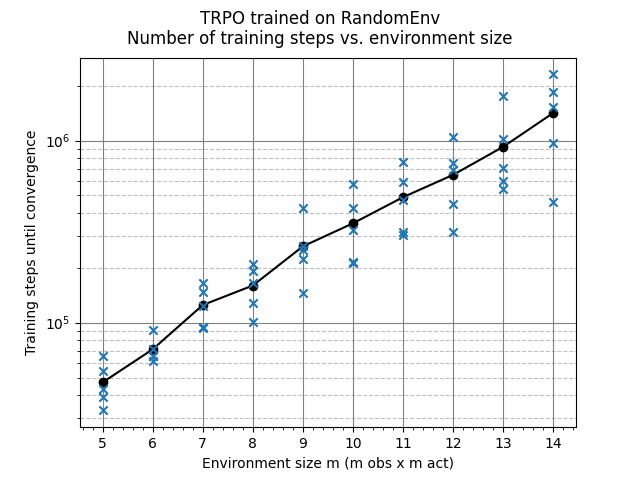
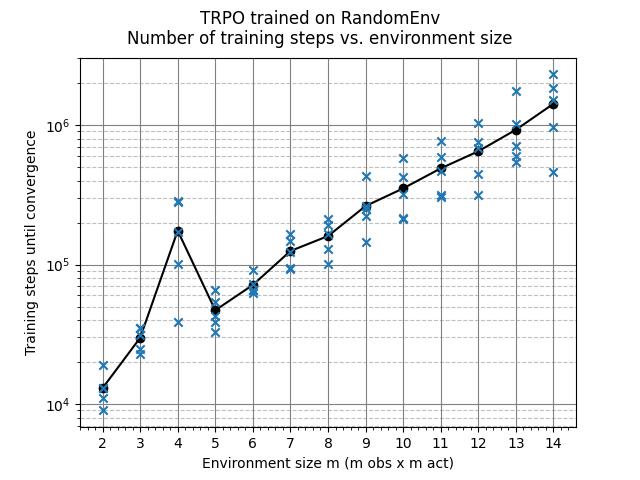
wip 27/10/2022
Added M: 2-->4 for TRPO on IdentityEnv

diff --git a/deep_rl/random_env_frozen_sb3.py b/deep_rl/random_env_frozen_sb3.py
@@ -2,7 +2,7 @@ import os
 import numpy as np
 from datetime import datetime as dt
 from collections import deque
-# import comet_ml
+import comet_ml
 
 os.environ['CUDA_VISIBLE_DEVICES'] = '-1'
 import torch as t
@@ -11,7 +11,7 @@ from stable_baselines3 import PPO
 from stable_baselines3.common.callbacks import BaseCallback
 from sb3_contrib import TRPO
 from random_env.envs import RandomEnv, RunningStats
-# from my_agents_utils import make_path_exist, get_writer, count_parameters
+from my_agents_utils import make_path_exist, get_writer, count_parameters
 
 
 class EvalCheckpointEarlyStopTrainingCallback(BaseCallback):
@@ -158,10 +158,21 @@ class EvalCheckpointEarlyStopTrainingCallback(BaseCallback):
                 print(f'\t-> FPS = {fps:.2f}')
                 print('')
 
-            for tag, val in zip(('eval/episode_return', 'eval/episode_length', 'eval/success', 'eval/rew_final_neg_init',
-                                 'eval/expected_rew_per_step', 'train/fps'),
-                                (returns, ep_lens, success, rew_final_neg_init, expected_rew_per_step, fps)):
-                self.logger.record(tag, val)
+            # Tensorboard
+            # for tag, val in zip(('eval/episode_return', 'eval/episode_length', 'eval/success', 'eval/rew_final_neg_init',
+            #                      'eval/expected_rew_per_step', 'train/fps'),
+            #                     (returns, ep_lens, success, rew_final_neg_init, expected_rew_per_step, fps)):
+            #     self.logger.record(tag, val)
+            # Comet-ml
+            self.logger.log_metrics({'eval/episode_return': returns,
+                                     'eval/episode_length': ep_lens,
+                                     'eval/success': success,
+                                     'eval/rew_final_neg_init': rew_final_neg_init,
+                                     'eval/expected_rew_per_step': expected_rew_per_step,
+                                     'spaces/obs_mean': obs_mean, 'spaces/obs_std': obs_std,
+                                     'spaces/act_mean': act_mean, 'spaces/act_std': act_std,
+                                     'spaces/trim_mean': trim_mean, 'spaces/trim_std': trim_std,
+                                     'train/fps': fps}, step=self.num_timesteps)
 
             ### SAVE SUCCESSFUL AGENTS ###
             if success > 50.0:
@@ -182,7 +193,7 @@ class EvalCheckpointEarlyStopTrainingCallback(BaseCallback):
 
 COMET_WORKSPACE = 'testing-ppo-trpo'
 COMMON_ENV_DIR = '../identity_envs'
-algo = 'PPO'
+algo = 'TRPO'
 
 if 'PPO' in algo:
     # '''
@@ -258,10 +269,11 @@ CHKPT_FREQ = 50000
 
 params = DEFAULT_PARAMS.copy()
 # session_name = dt.strftime(dt.now(), f'sess_{algo.lower()}_%m%d%y_%H%M%S')
-session_name = 'sess_ppo_102422_150542'
+# session_name = 'sess_trpo_102422_150542'
+session_name = 'sess_trpo_050522_131337'
 par_dir = os.path.join('sb3_identityenv_training', session_name)
 
-for env_sz in np.arange(4, 5):
+for env_sz in np.arange(2, 5):
     N_OBS = env_sz
     N_ACT = env_sz
 
@@ -301,11 +313,10 @@ for env_sz in np.arange(4, 5):
         '''Callback evaluated agent every EVAL_FREQ steps and saved best model, and auto-saves every CHKPT_FREQ steps'''
         eval_callback = EvalCheckpointEarlyStopTrainingCallback(env=eval_env, save_dir=model_save_dir,
                                                                 EVAL_FREQ=EVAL_FREQ, CHKPT_FREQ=CHKPT_FREQ)
-        # writer = get_writer(model_name, session_name, COMET_WORKSPACE)
-        # model.set_logger(writer)
-        # eval_callback.init_callback(model, writer)
+        writer = get_writer(model_name, session_name, COMET_WORKSPACE)
+        model.set_logger(writer)
 
-        # model.logger.log_parameters(params)
+        model.logger.log_parameters(params)
 
         '''Log some more info and save it in the same directory as the agent'''
         with open(os.path.join(model_dir, 'info.txt'), 'w') as f:

diff --git a/deep_rl/evaluate_env_sz_vs_training_time.py b/deep_rl/evaluate_env_sz_vs_training_time.py
@@ -165,8 +165,9 @@ def plot_compare_ppo_trpo():
 
 
 if __name__ == '__main__':
+    # create_ppo_result_heuristics()
     # create_trpo_result_heuristics()
-    # for algo_name in ('trpo', 'ppo'):
-    #     plot_result_heuristics(algo_name, True)
-    #     plot_result_heuristics(algo_name, False)
+    for algo_name in ('trpo', 'ppo'):
+        plot_result_heuristics(algo_name, True)
+        plot_result_heuristics(algo_name, False)
     plot_compare_ppo_trpo()
